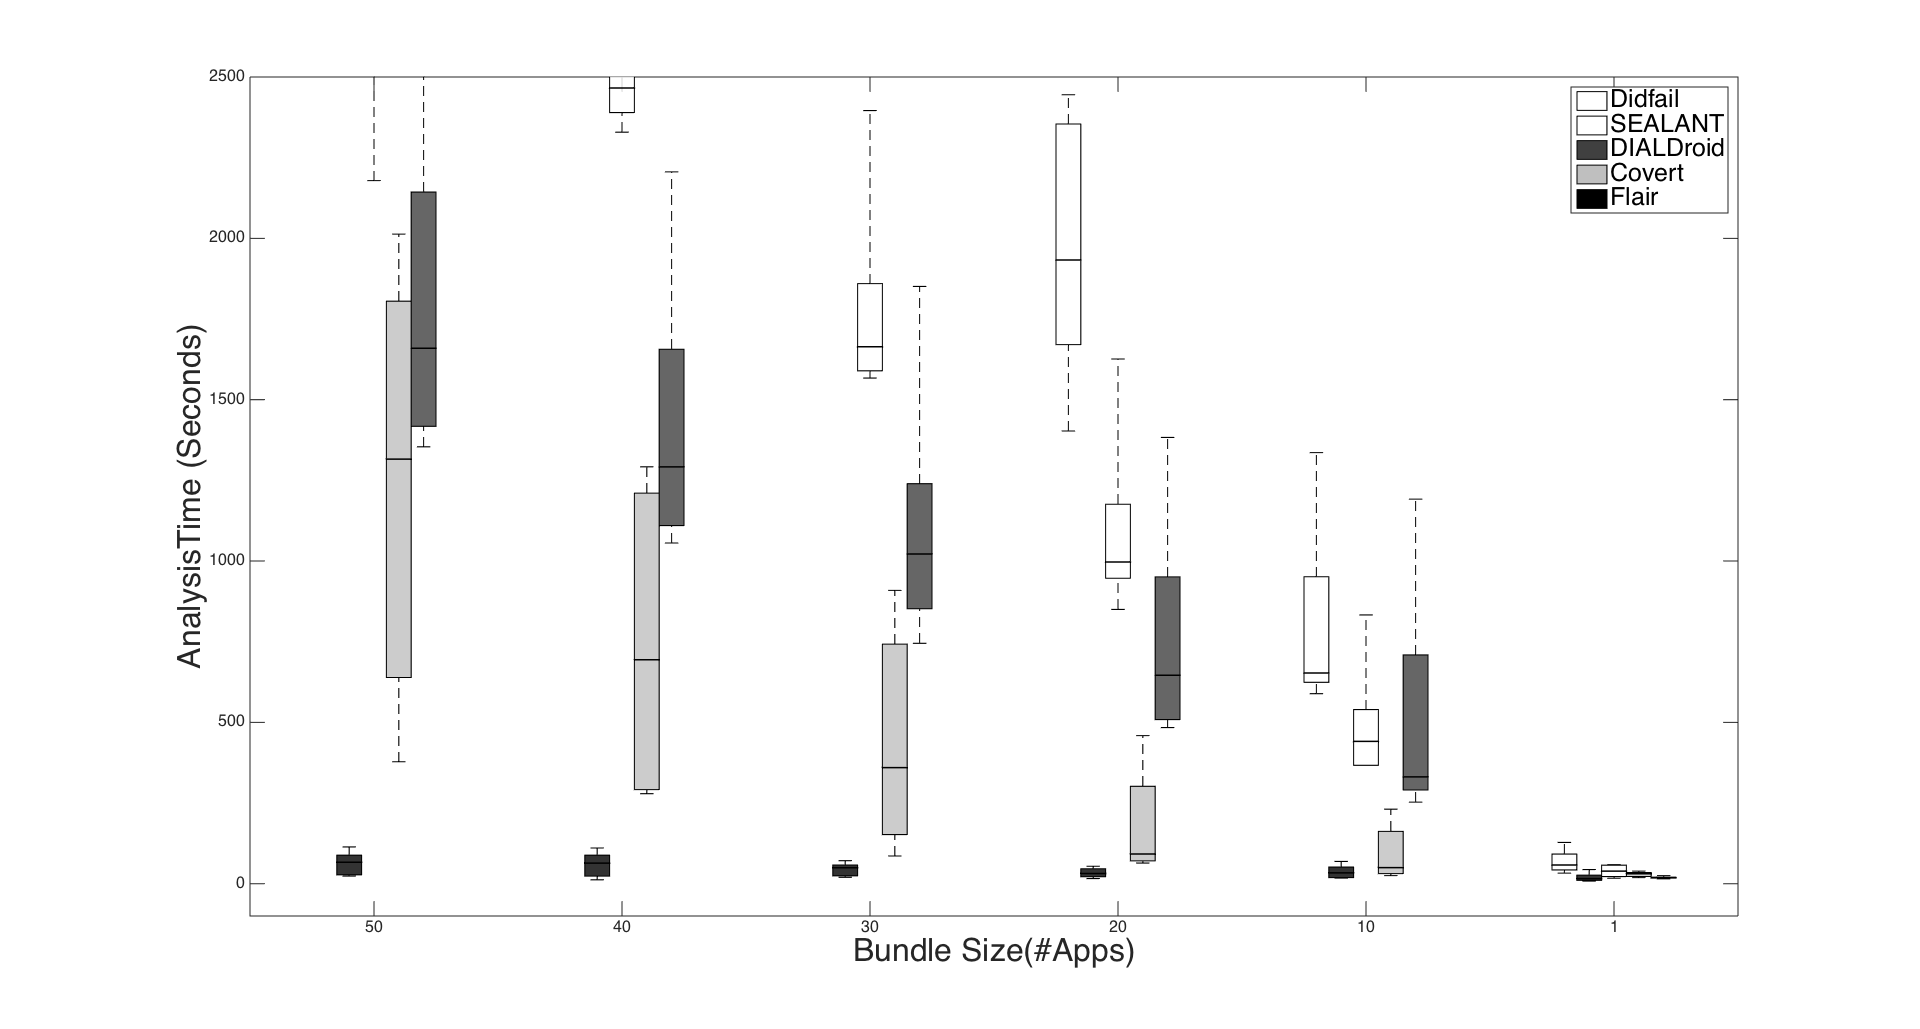
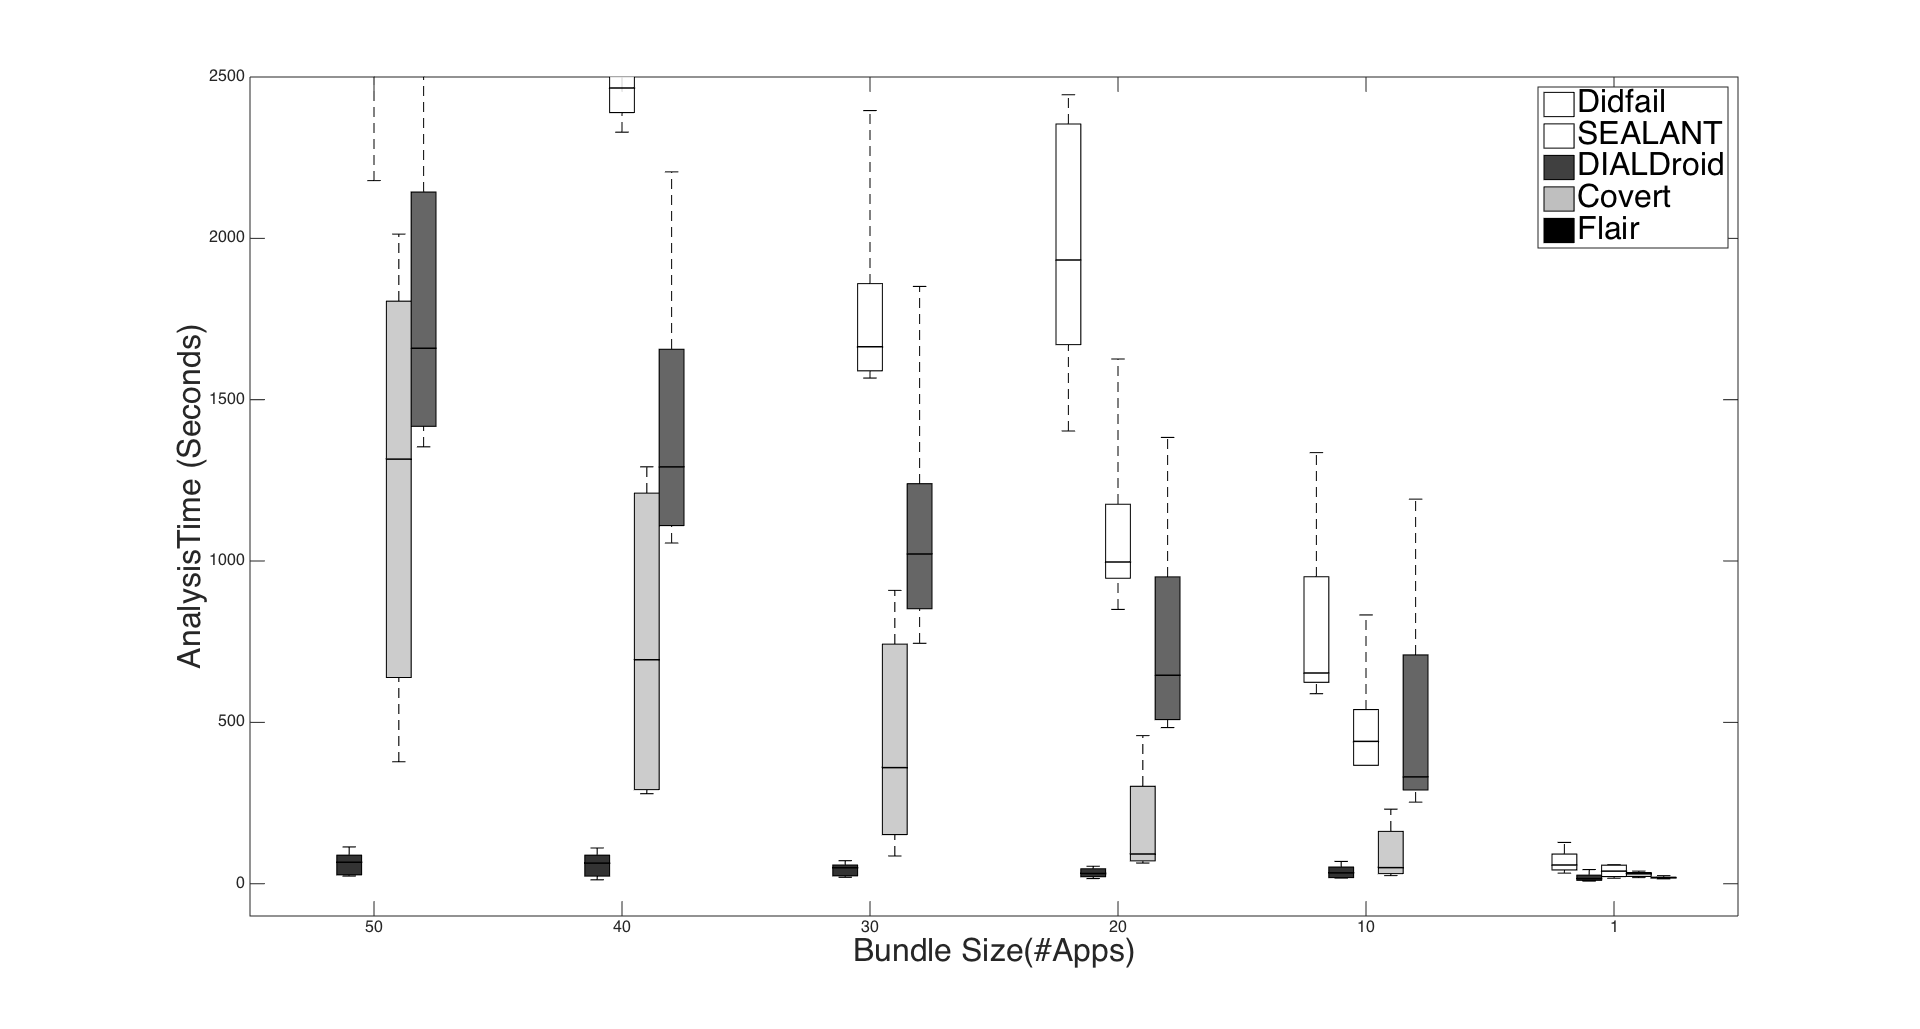
Hatched

Changed region(s): [[0.7812, 0.0622, 0.9062, 0.2488]]

diff --git a/FlairResearch/MatLabSource/ReversedGraph_By10.m b/FlairResearch/MatLabSource/ReversedGraph_By10.m
@@ -89,7 +89,7 @@ hold off
    
     c = get(gca, 'Children');
    hleg1 = legend(j,{'Didfail','SEALANT','DIALDroid', 'Covert','Flair'},'Location','NorthEast');
-   set(hleg1,'FontSize',25) 
+   set(hleg1,'FontSize',32) 
    
    set(gca,'xtick',1:6);
     set(gca,'xticklabel',{'50','40','30','20','10','1'});
